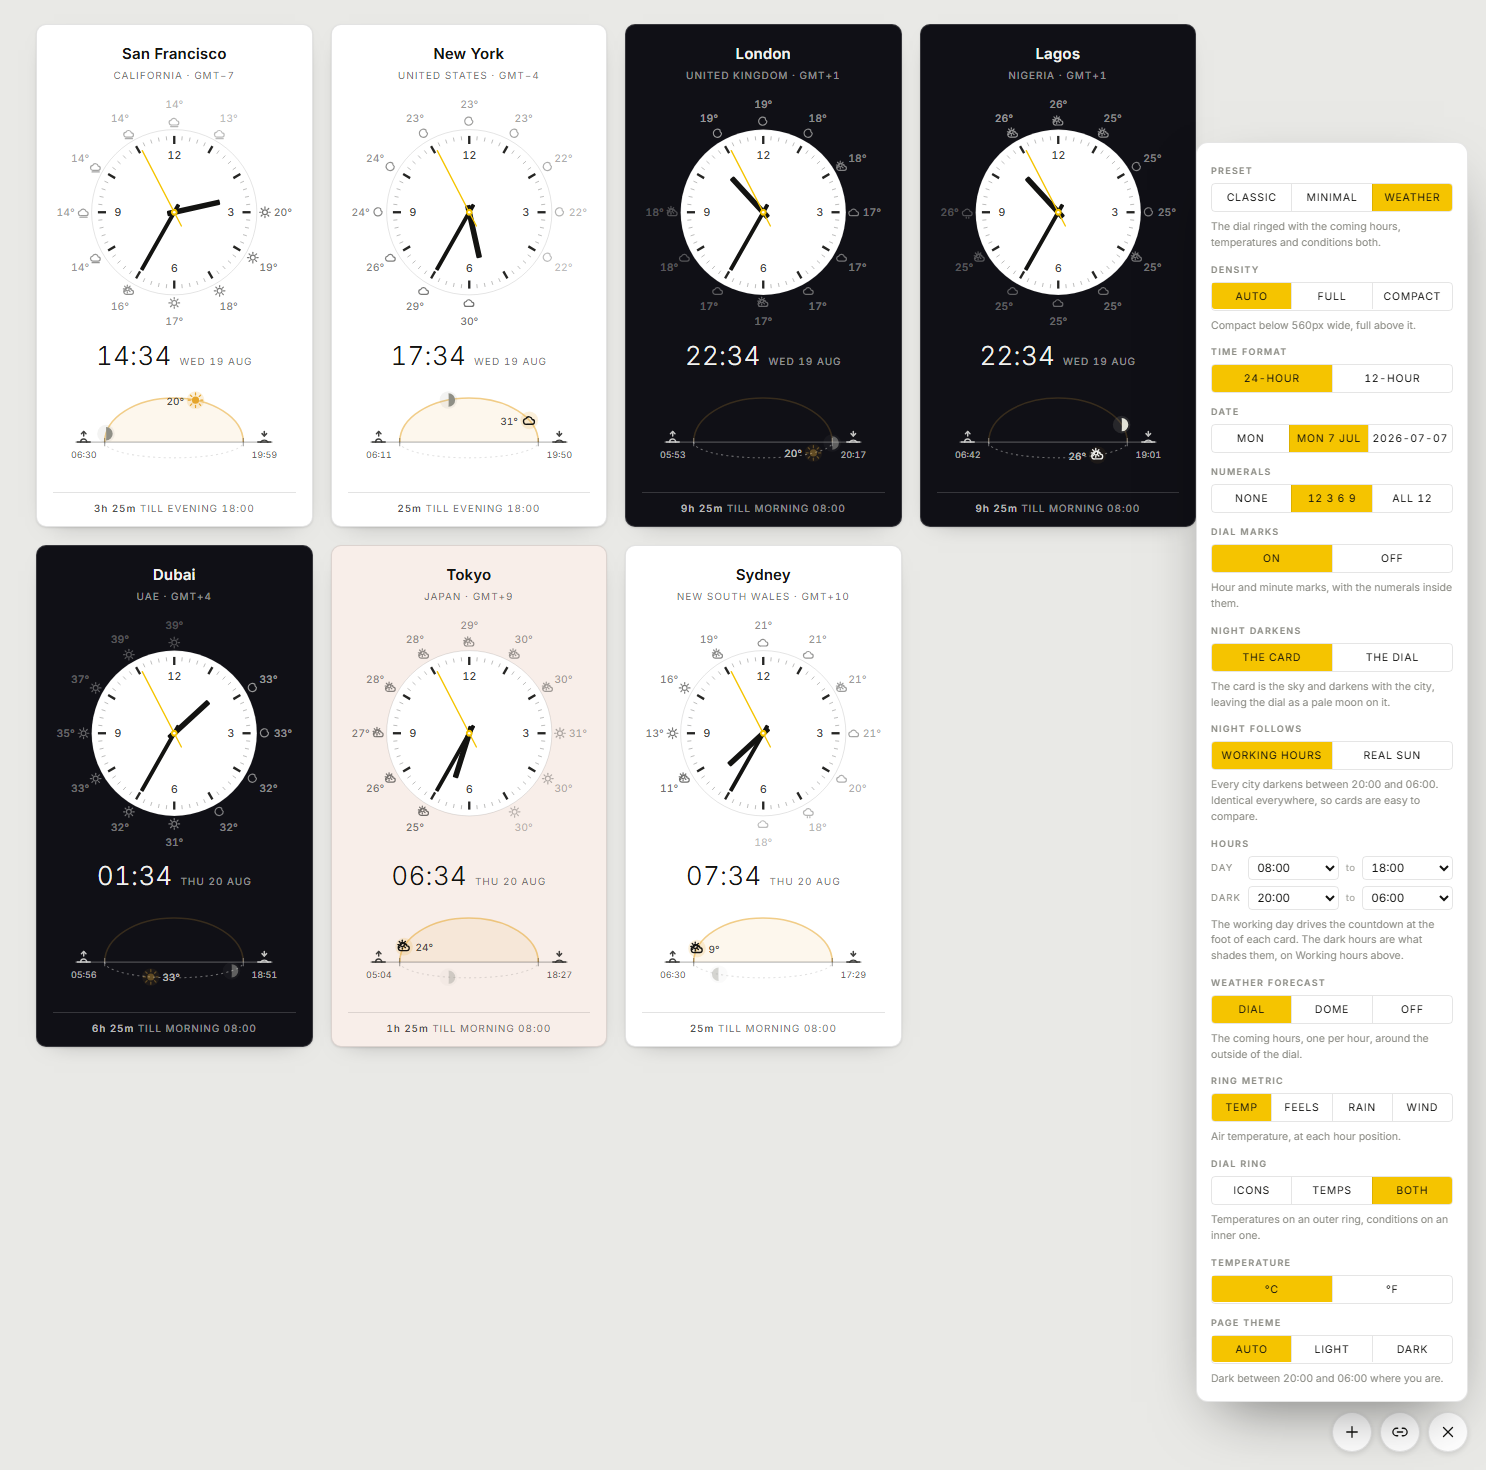
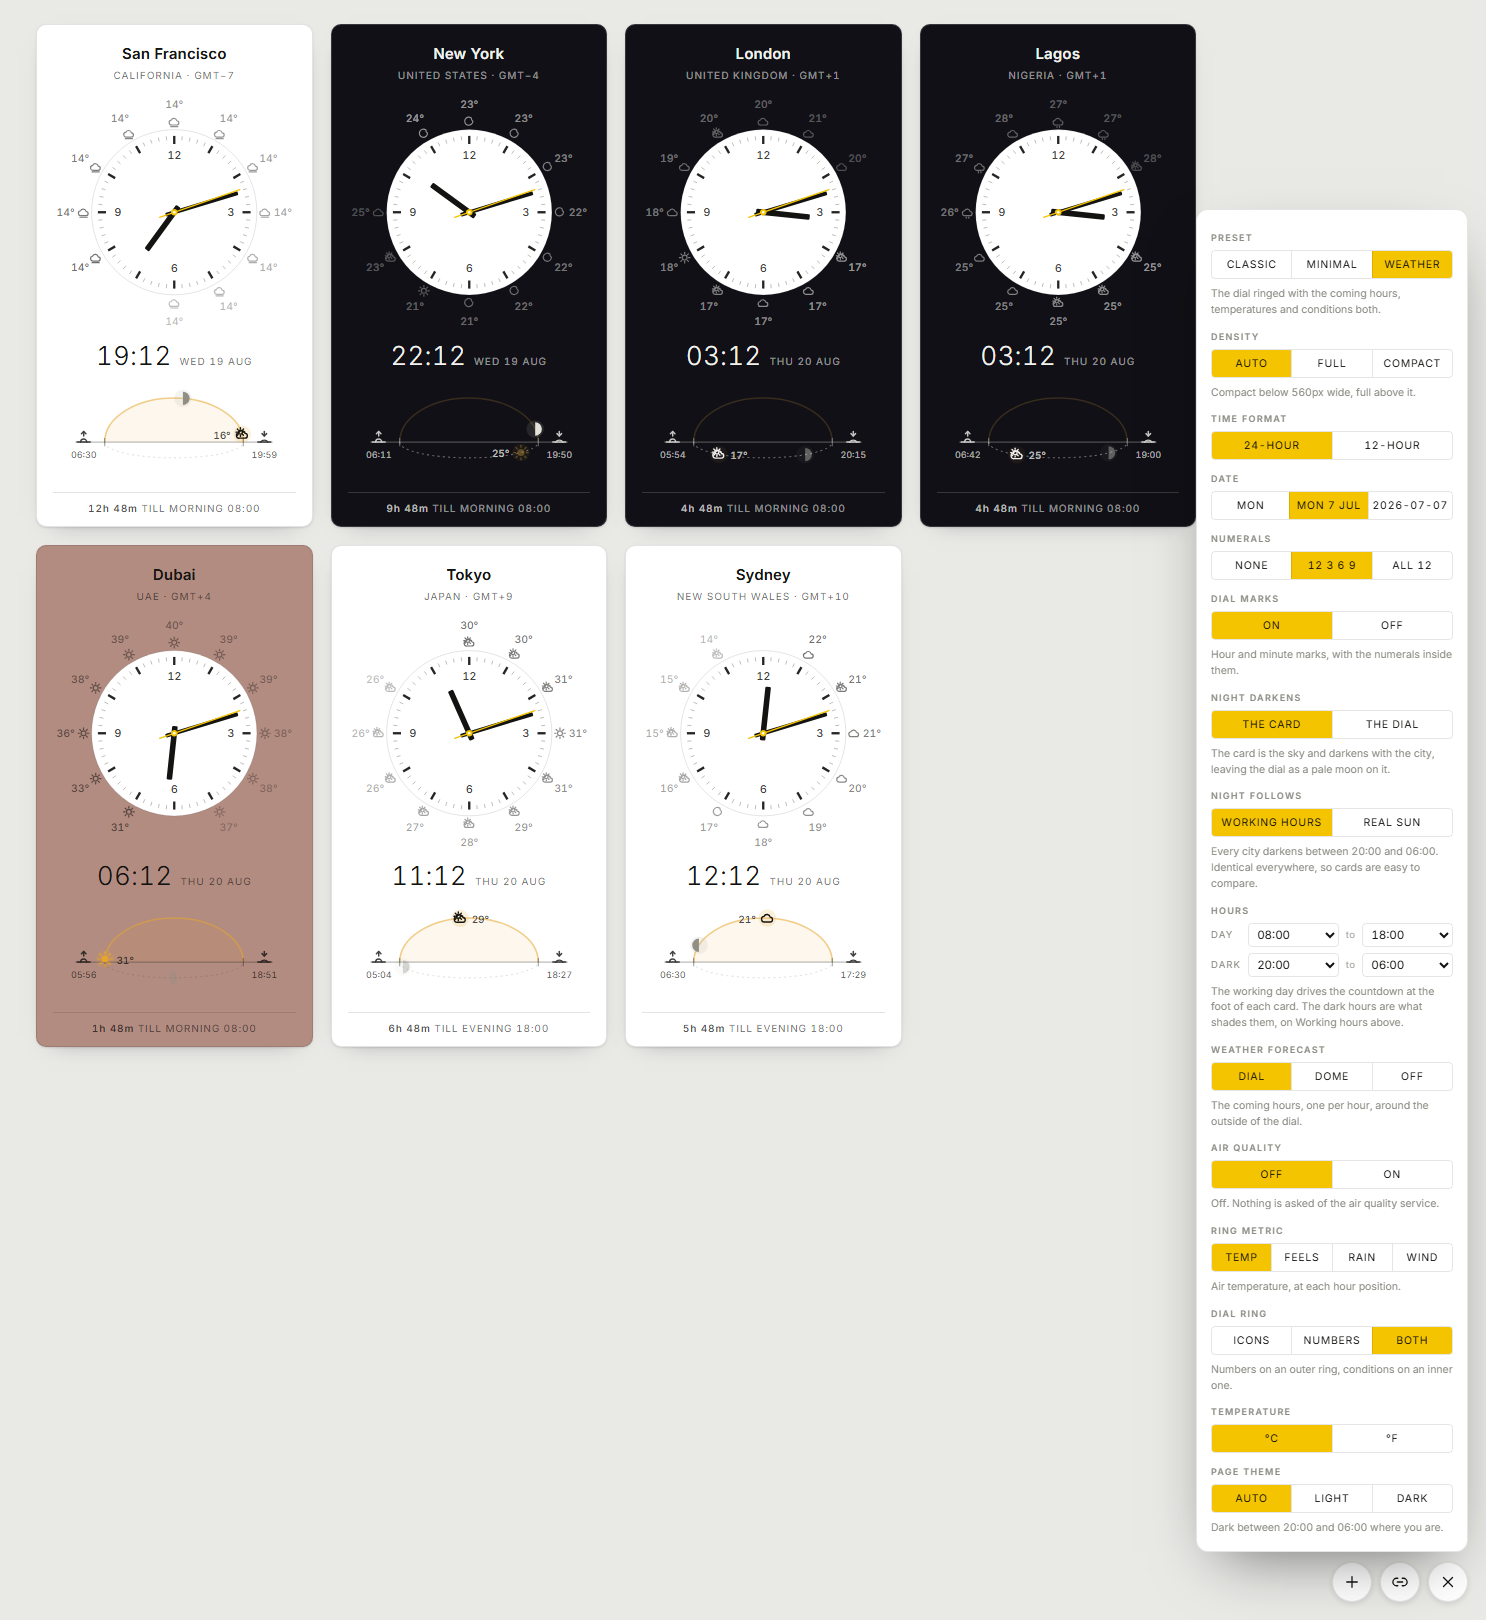
Rename the Dial ring's Temps to Numbers
The ring stopped carrying only temperatures when Ring metric arrived: it can
show feels-like, rain chance, wind, and now air quality. Calling the option
Temps described the one reading it happened to start with, and left two adjacent
settings apparently disagreeing about what the ring is for.

The stored value is renamed too, rather than only the label, so the code does not
keep saying temps while the menu says Numbers. Anyone with the old value stored
is migrated on load: dropping through to the validity check instead would have
silently put them back on Icons for a rename.

The hints went with it. "Temperatures on an outer ring" was the same inaccuracy,
and the Numbers hint now points at Ring metric, which is where the choice of
number actually lives.

docs/settings.png is reshot: it showed TEMPS, and predated the Air quality
section, so the menu in it was one section short.

diff --git a/index.html b/index.html
@@ -607,7 +607,7 @@ html.blurred .add { opacity: 0; }
     <h2>Dial ring</h2>
     <div class="seg" role="radiogroup" aria-label="Dial ring" data-group="ring">
       <button type="button" role="radio" data-val="icons">Icons</button>
-      <button type="button" role="radio" data-val="temps">Temps</button>
+      <button type="button" role="radio" data-val="numbers">Numbers</button>
       <button type="button" role="radio" data-val="both">Both</button>
     </div>
     <p class="hint" id="hint-ring"></p>
@@ -715,7 +715,7 @@ let state = {
   nums: store.get(LS.nums, "quarters"),    // none | quarters | all
   ticks: store.get(LS.ticks, "1") === "1", // minute and hour marks on the dial
   weather: store.get(LS.weather, "dial"),  // dial | dome | off
-  ring: store.get(LS.ring, "both"),        // icons | temps | both
+  ring: store.get(LS.ring, "both"),        // icons | numbers | both
   units: store.get(LS.units, "c"),         // c | f
   metric: store.get(LS.metric, "temp"),    // temp | feels | rain | wind | air
   // Off by default on purpose: it is a second request per city, on a second
@@ -733,7 +733,11 @@ if (!["card", "dial"].includes(state.shade)) state.shade = "card";
 if (!["day", "short", "iso"].includes(state.date)) state.date = "short";
 if (!["none", "quarters", "all"].includes(state.nums)) state.nums = "quarters";
 if (!["dial", "dome", "off"].includes(state.weather)) state.weather = "dial";
-if (!["icons", "temps", "both"].includes(state.ring)) state.ring = "icons";
+// "temps" was this setting's name while temperature was the only number it could
+// carry. Migrate rather than validate it away, or everyone who chose it lands back
+// on icons for a rename.
+if (state.ring === "temps") { state.ring = "numbers"; store.set(LS.ring, "numbers"); }
+if (!["icons", "numbers", "both"].includes(state.ring)) state.ring = "icons";
 if (!["c", "f"].includes(state.units)) state.units = "c";
 if (!["temp", "feels", "rain", "wind", "air"].includes(state.metric)) state.metric = "temp";
 // Air is the one metric that needs its own fetch, so it cannot outlive the
@@ -1157,7 +1161,7 @@ function clockBox() {
   // and gets clipped.
   const half = state.weather !== "dial" ? 104
     : state.ring === "both" ? TEMP_RING + 14
-    : state.ring === "temps" ? WXRING + 14
+    : state.ring === "numbers" ? WXRING + 14
     : 113;
   const span = half * 2;
   return { box: `${100 - half} ${100 - half} ${span} ${span}`,
@@ -1901,7 +1905,7 @@ function paintDialRing(c, nowMs, data) {
     // not part of it, and in "both" there are two of these rings to keep quiet.
     const op = 0.6 - 0.32 * (i / Math.max(1, rows.length - 1));
     const label = wxDetail(row, { minutes: p2.minutes, h12: state.hour12 }, c);
-    if (state.ring !== "temps") {
+    if (state.ring !== "numbers") {
       const [x, y] = pol(iconR, angle);
       out.push(wxGlyph(key, x, y, both ? 14 : 15, "currentColor", label, op));
     }
@@ -2445,8 +2449,8 @@ const HINTS = {
   },
   ring: {
     icons: "Conditions only. The gap in the ring is the current hour; it reads clockwise from there.",
-    temps: "Temperatures only, at each hour position.",
-    both: "Temperatures on an outer ring, conditions on an inner one."
+    numbers: "The reading chosen under Ring metric, at each hour position, and no icons.",
+    both: "Numbers on an outer ring, conditions on an inner one."
   },
   density: {
     auto: `Compact below ${COMPACT_BELOW}px wide, full above it.`,

diff --git a/README.md b/README.md
@@ -396,15 +396,18 @@ the whole ring appeared to shuffle arbitrarily whenever the time changed. Stoppi
 short leaves a gap at the current hour: the gap is now, and the ring reads clockwise
 from it.
 
-**Dial ring** chooses what the ring carries: `Icons`, `Temps`, or `Both`, which is
-the default: temperatures on an outer ring with conditions on an inner one. The
-viewBox opens up to fit whichever is shown, allowing for the width of the labels as
-well as the radius of the ring, since a reading like `-10°` at the three o'clock
+**Dial ring** chooses what the ring carries: `Icons`, `Numbers`, or `Both`, which is
+the default: numbers on an outer ring with conditions on an inner one. Which number is
+a separate choice, made under Ring metric below, which is why this one is not called
+Temps: it was, back when temperature was the only reading it could carry.
+
+The viewBox opens up to fit whichever is shown, allowing for the width of the labels
+as well as the radius of the ring, since a reading like `-10°` at the three o'clock
 position otherwise overhangs the box and gets clipped. Two rings is also why the
 default costs the dial some size, and why the ring is drawn lighter than the dial's
 own marks: it is context around the clock, not part of it.
 
-![Temperatures and conditions on two rings](docs/ring-both.png)
+![Numbers and conditions on two rings](docs/ring-both.png)
 
 **Ring metric** chooses which number the ring and the dome readout print: `Temp`,
 `Feels` (apparent temperature, what it feels like with wind and humidity), `Rain`
